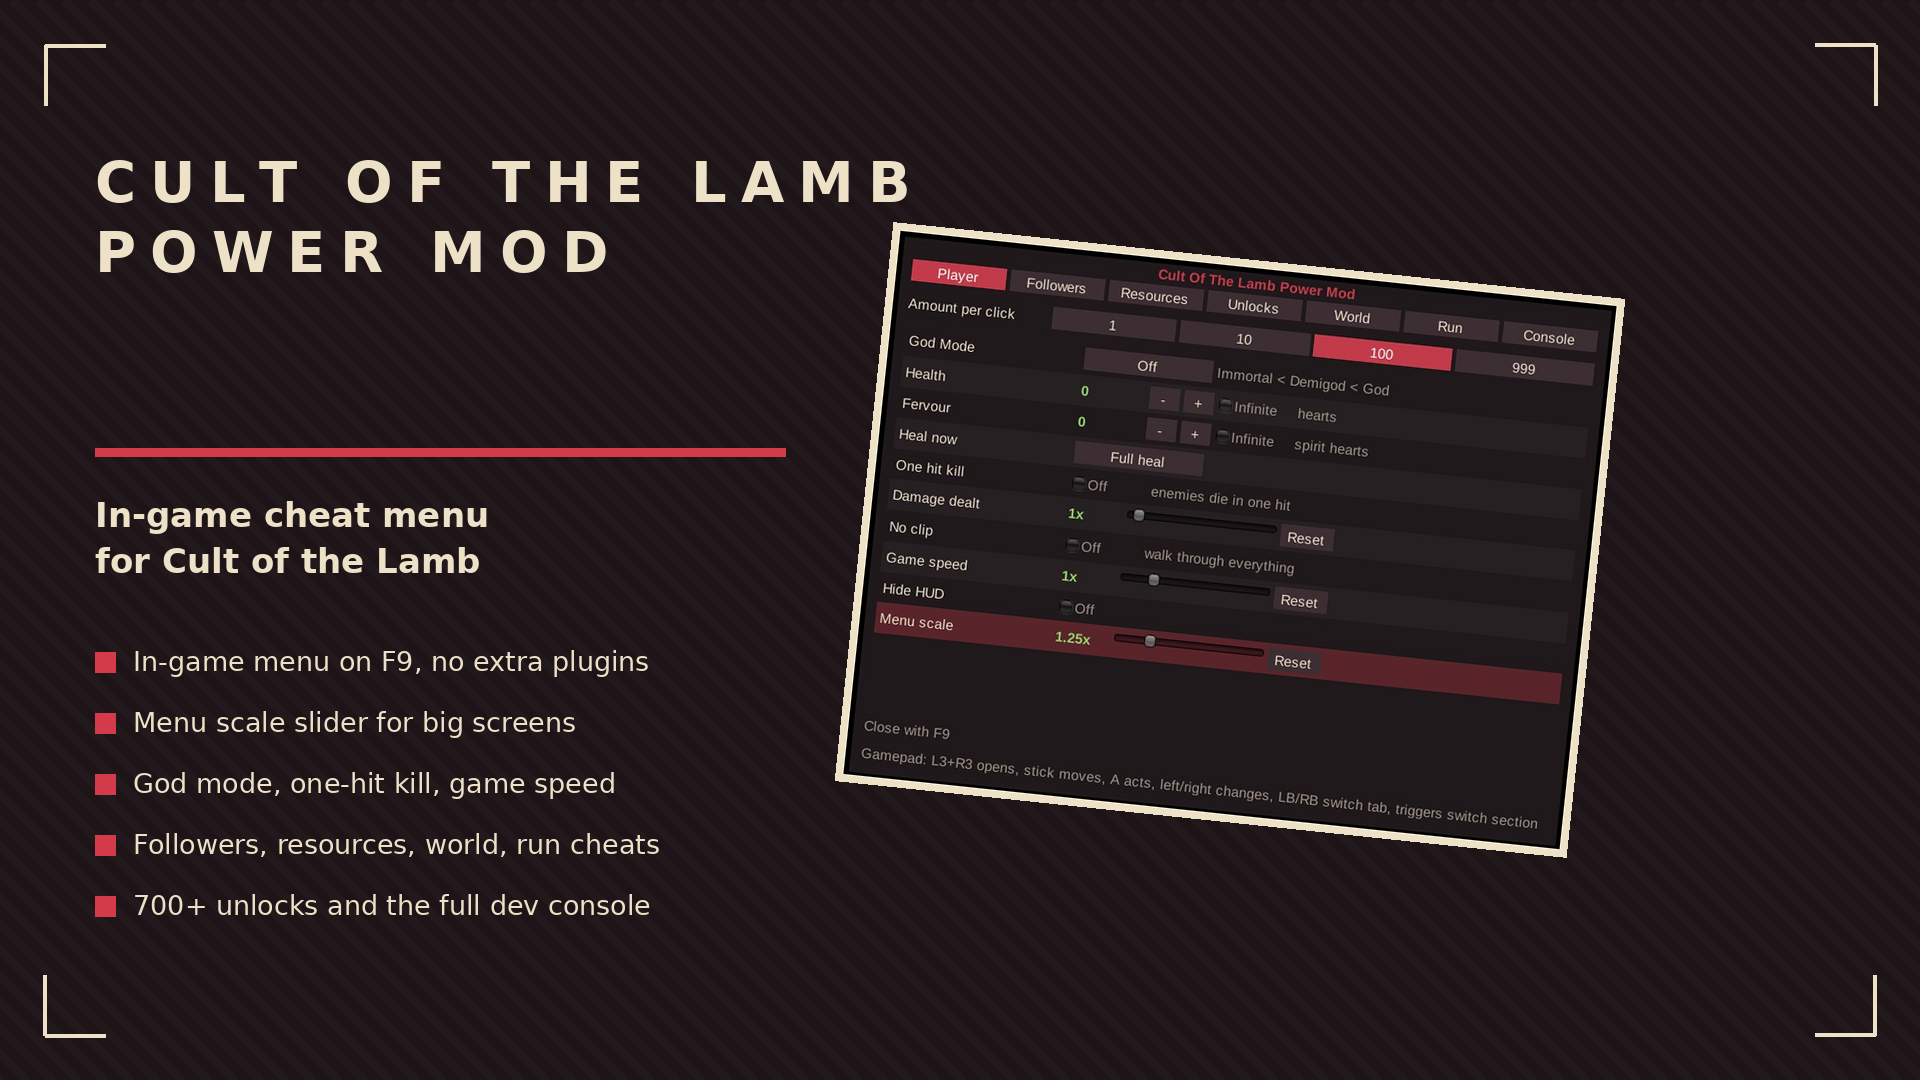
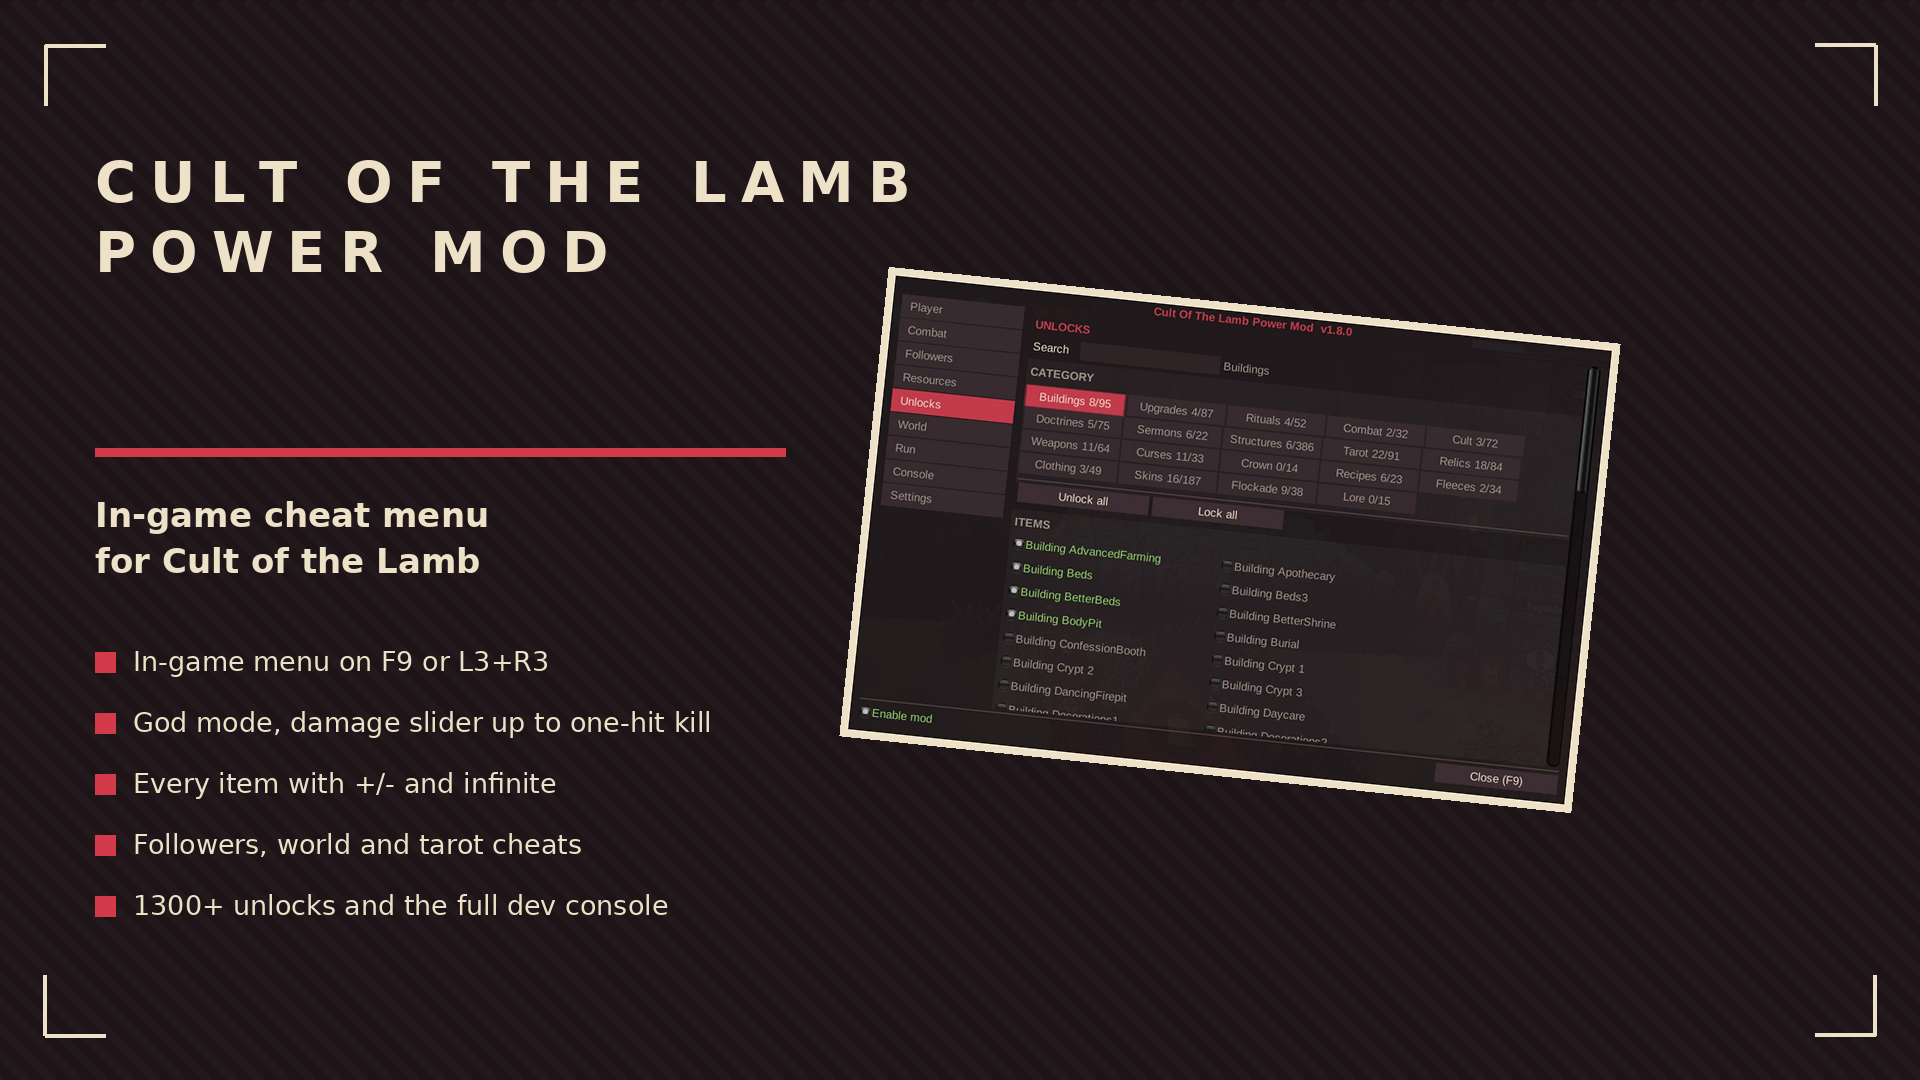
CultOfTheLambPowerMod 1.9.0: tabs on the left, damage slider, settings tab

diff --git a/CultOfTheLamb/CultOfTheLambPowerMod/README.md b/CultOfTheLamb/CultOfTheLambPowerMod/README.md
@@ -9,8 +9,9 @@ In-game cheat menu for Cult of the Lamb. Press F9 (or L3+R3 on a gamepad), toggl
 ## ✨ Features
 - In-game menu on F9, everything live
 - Full gamepad control, no mouse needed (see Controls below)
-- God mode (persists between runs and restarts), one-hit kill, damage multiplier, no clip, game speed, hide HUD
-- Menu scale slider - readable on 1440p, ultrawide and 4K (default picked from your screen)
+- God mode (persists between runs and restarts), damage slider from x0.1 to INF (one-hit kill), no clip, game speed, hide HUD
+- Enable mod switch that pauses every cheat at once
+- Settings tab: menu scale (readable on 1440p, ultrawide and 4K) and menu key rebinding
 - Every item in the game with +/-, remove and infinite - DLC items included (Woolhaven section, everything else under Other)
 - Cult faith: raise, lower, keep maxed, stop the drain, clear negative thoughts
 - Follower cards with live portrait: traits, rename, spawn, loyalty, heal, rejuvenate, cure dissent, free prisoners
@@ -34,10 +35,11 @@ In-game cheat menu for Cult of the Lamb. Press F9 (or L3+R3 on a gamepad), toggl
 
 ## 📸 Screenshots
 ![player](screenshots/01-player-tab.png)
-![followers](screenshots/02-followers-tab.png)
-![unlocks](screenshots/04-unlocks-tab.png)
-![world](screenshots/05-world-tab.png)
-![console](screenshots/07-console-tab.png)
+![combat](screenshots/02-combat-tab.png)
+![followers](screenshots/03-followers-tab.png)
+![unlocks](screenshots/05-unlocks-tab.png)
+![world](screenshots/06-world-tab.png)
+![console](screenshots/08-console-tab.png)
 
 ## 🌍 Translating
 Texts live in `I18n.cs`, one dictionary per language keyed by the English string. To add a
